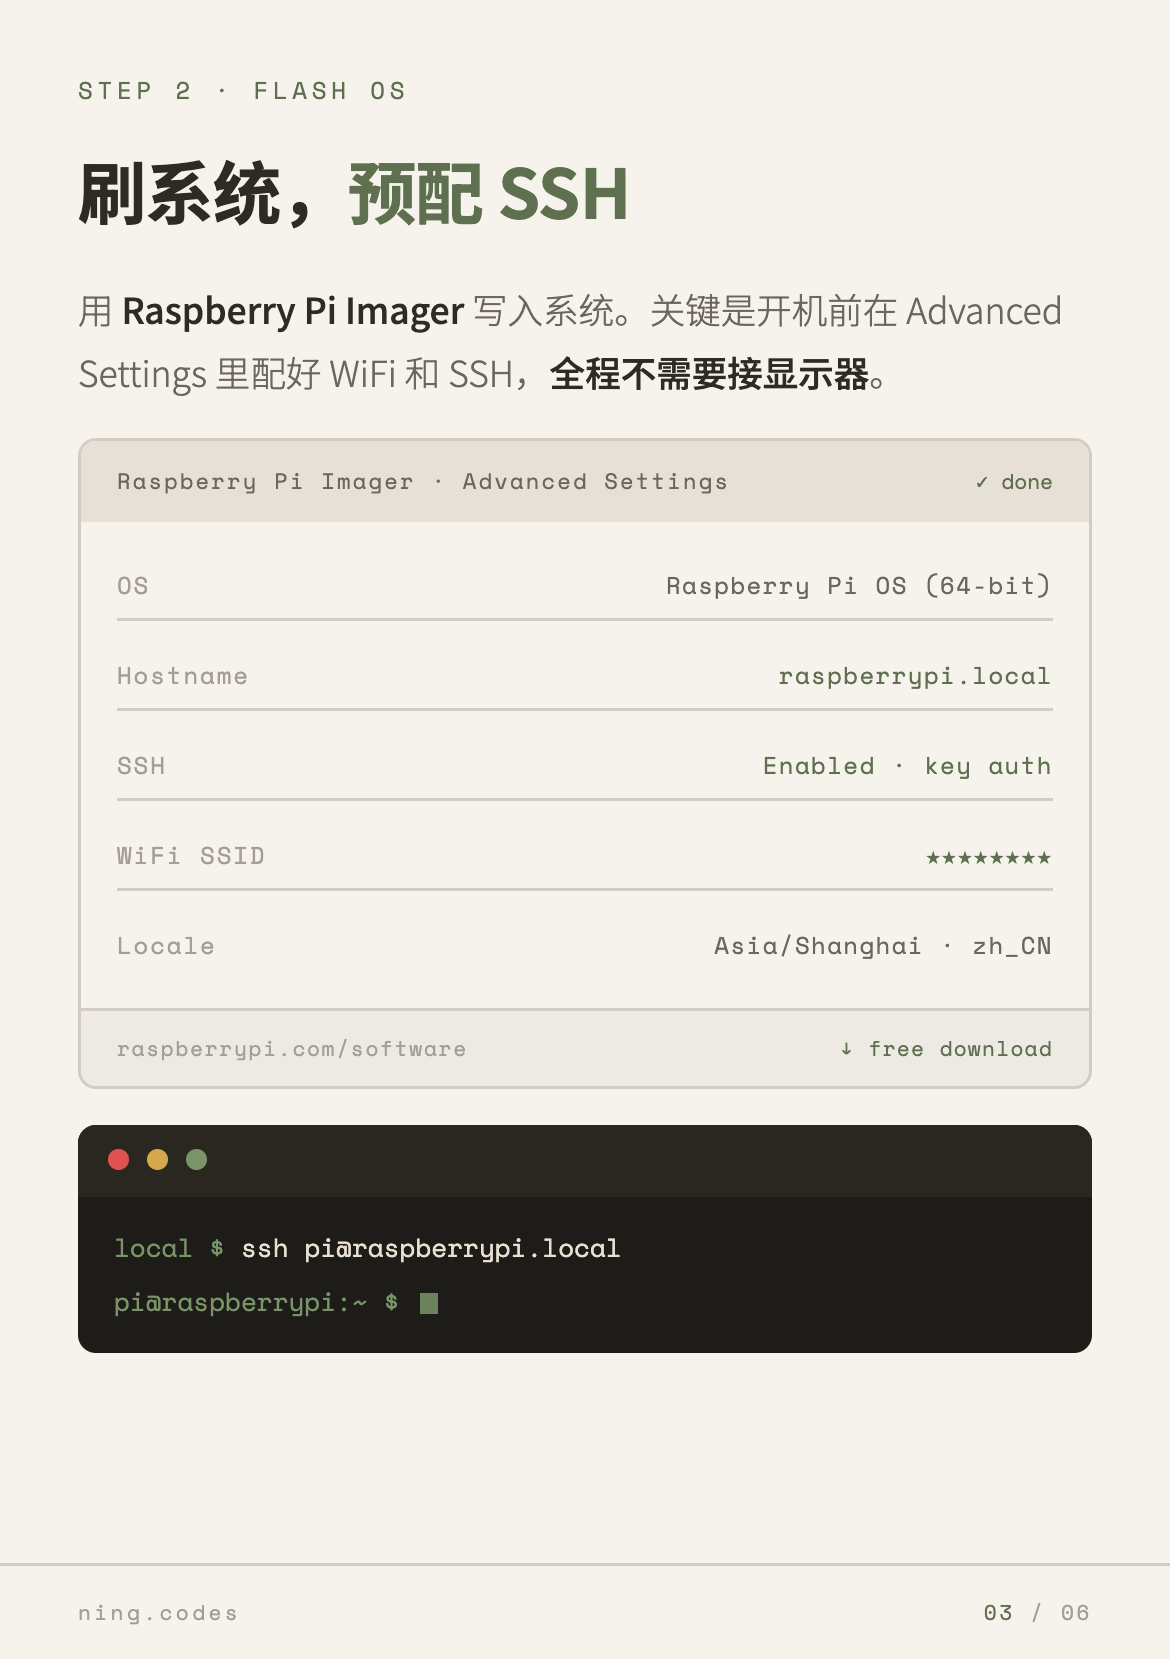
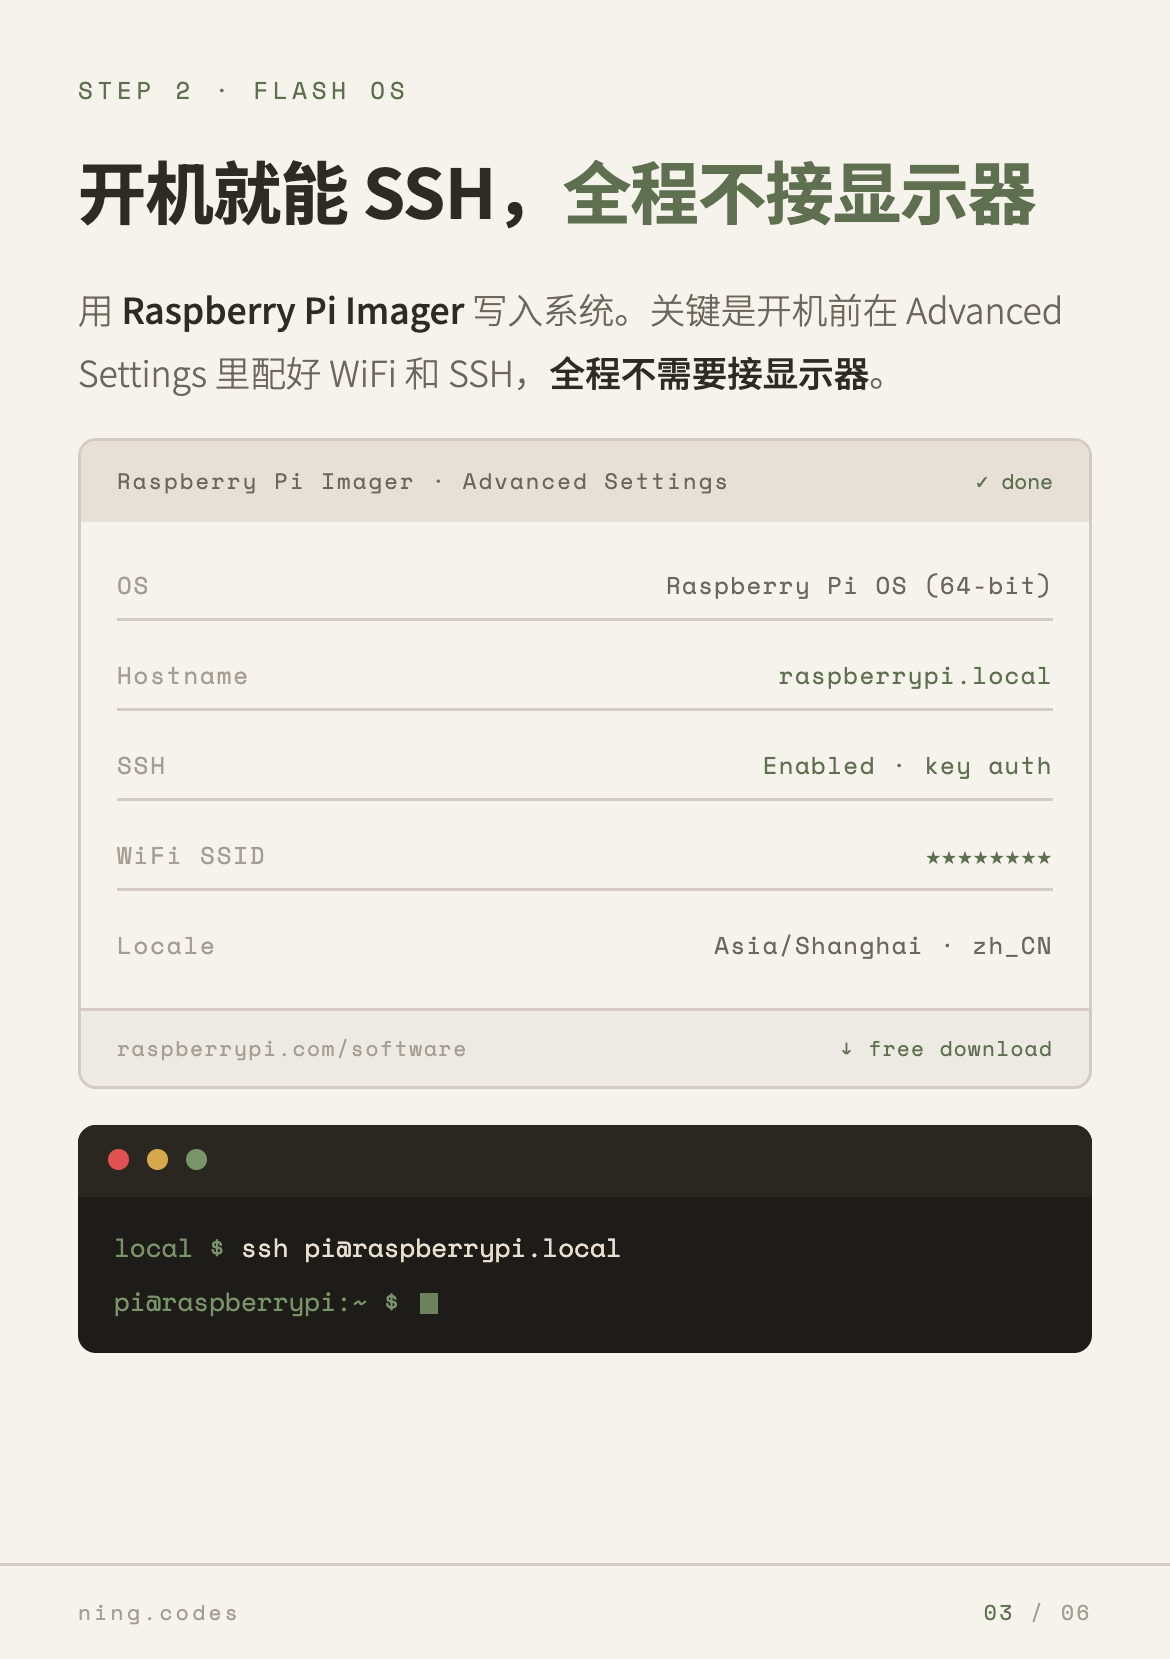
auto-commit on 2026-03-12 00:16

Changed region(s): [[0.0615, 0.0922, 0.8923, 0.1537]]

diff --git a/reference/raspi-tutorial-handbook.html b/reference/raspi-tutorial-handbook.html
@@ -538,7 +538,7 @@ body {
 
     <!-- title + footer row -->
     <div class="big-title" style="font-size:1.42rem;margin-bottom:8px;">
-      花 $128，造一台<br><em>不联网的 AI 摄像头</em>
+      不订阅，不上云，<br>$128 造一台<em>自己的 AI 摄像头</em>
     </div>
 
     <div style="margin-top:auto;">
@@ -561,7 +561,7 @@ body {
 <div class="card" style="background:var(--bg2);">
   <div class="body" style="padding:24px 26px 16px;">
     <div class="tag-line">step 1 · 清单</div>
-    <div class="big-title" style="margin-bottom:14px;">备货清单，<em>$128 搞定</em></div>
+    <div class="big-title" style="margin-bottom:14px;">一次买断，<em>不订阅不上云</em></div>
 
     <div style="border:1px solid var(--line);border-radius:6px;overflow:hidden;margin-bottom:12px;">
       <!-- Micro Center -->
@@ -640,7 +640,7 @@ body {
 <div class="card" style="background:var(--card);">
   <div class="body" style="padding:24px 26px 14px;">
     <div class="tag-line">step 2 · flash os</div>
-    <div style="margin-bottom:12px;"><div class="big-title" style="font-size:1.42rem;">刷系统，<em>预配 SSH</em></div></div>
+    <div style="margin-bottom:12px;"><div class="big-title" style="font-size:1.42rem;">开机就能 SSH，<em>全程不接显示器</em></div></div>
 
     <p class="caption" style="margin-bottom:12px;">
       用 <strong>Raspberry Pi Imager</strong> 写入系统。关键是开机前在 Advanced Settings 里配好 WiFi 和 SSH，<strong>全程不需要接显示器</strong>。
@@ -761,7 +761,7 @@ body {
   <div class="body" style="position:relative;z-index:1;padding:22px 24px 14px;">
     <div class="tag-line">step 4 · camera &amp; model</div>
 
-    <div style="margin-bottom:10px;"><div class="big-title" style="font-size:1.3rem;">拍照验证，<em>加载模型</em></div></div>
+    <div style="margin-bottom:10px;"><div class="big-title" style="font-size:1.3rem;">跑起来了，<em>摄像头自己在做推理</em></div></div>
 
     <!-- capture.py -->
     <div class="terminal" style="margin-bottom:7px;">
@@ -867,7 +867,7 @@ body {
   <div class="body" style="padding:24px 26px 14px;justify-content:space-between;position:relative;z-index:1;">
     <div>
       <div class="tag-line">summary</div>
-      <div class="big-title" style="margin-bottom:14px;">10 分钟，<em>跑起来了</em></div>
+      <div class="big-title" style="margin-bottom:14px;">搭好了，<em>下一步认出是哪只猫</em></div>
 
       <!-- 4-step recap -->
       <div style="display:flex;flex-direction:column;gap:0;margin-bottom:14px;">
